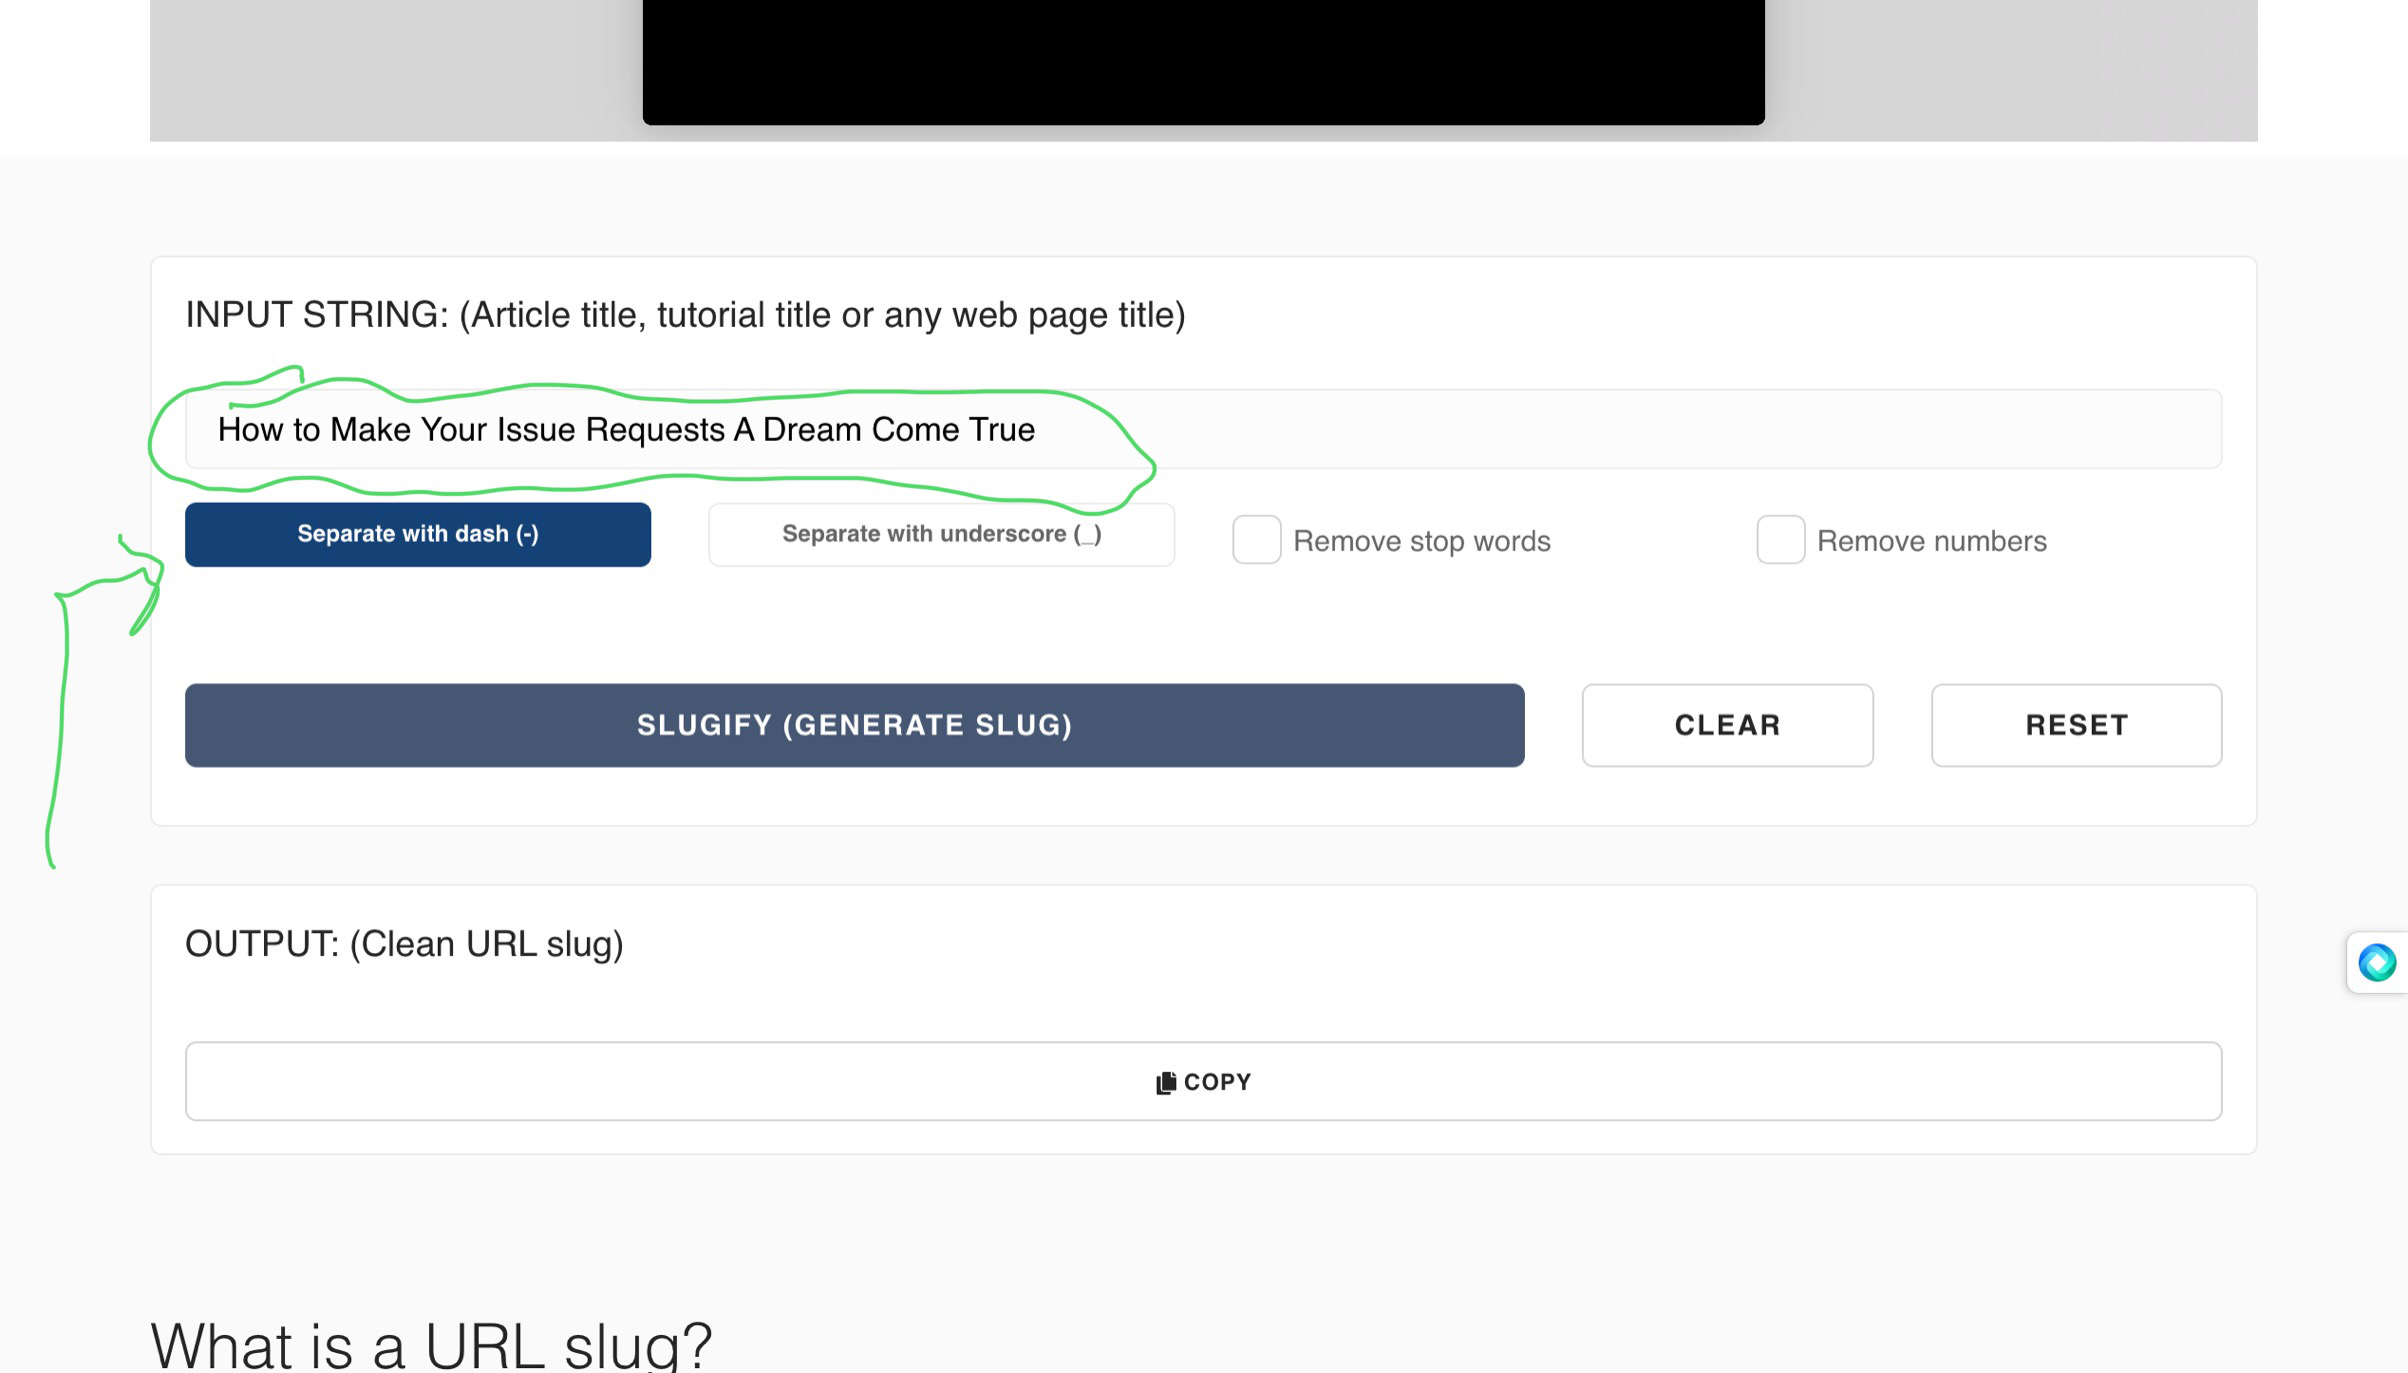
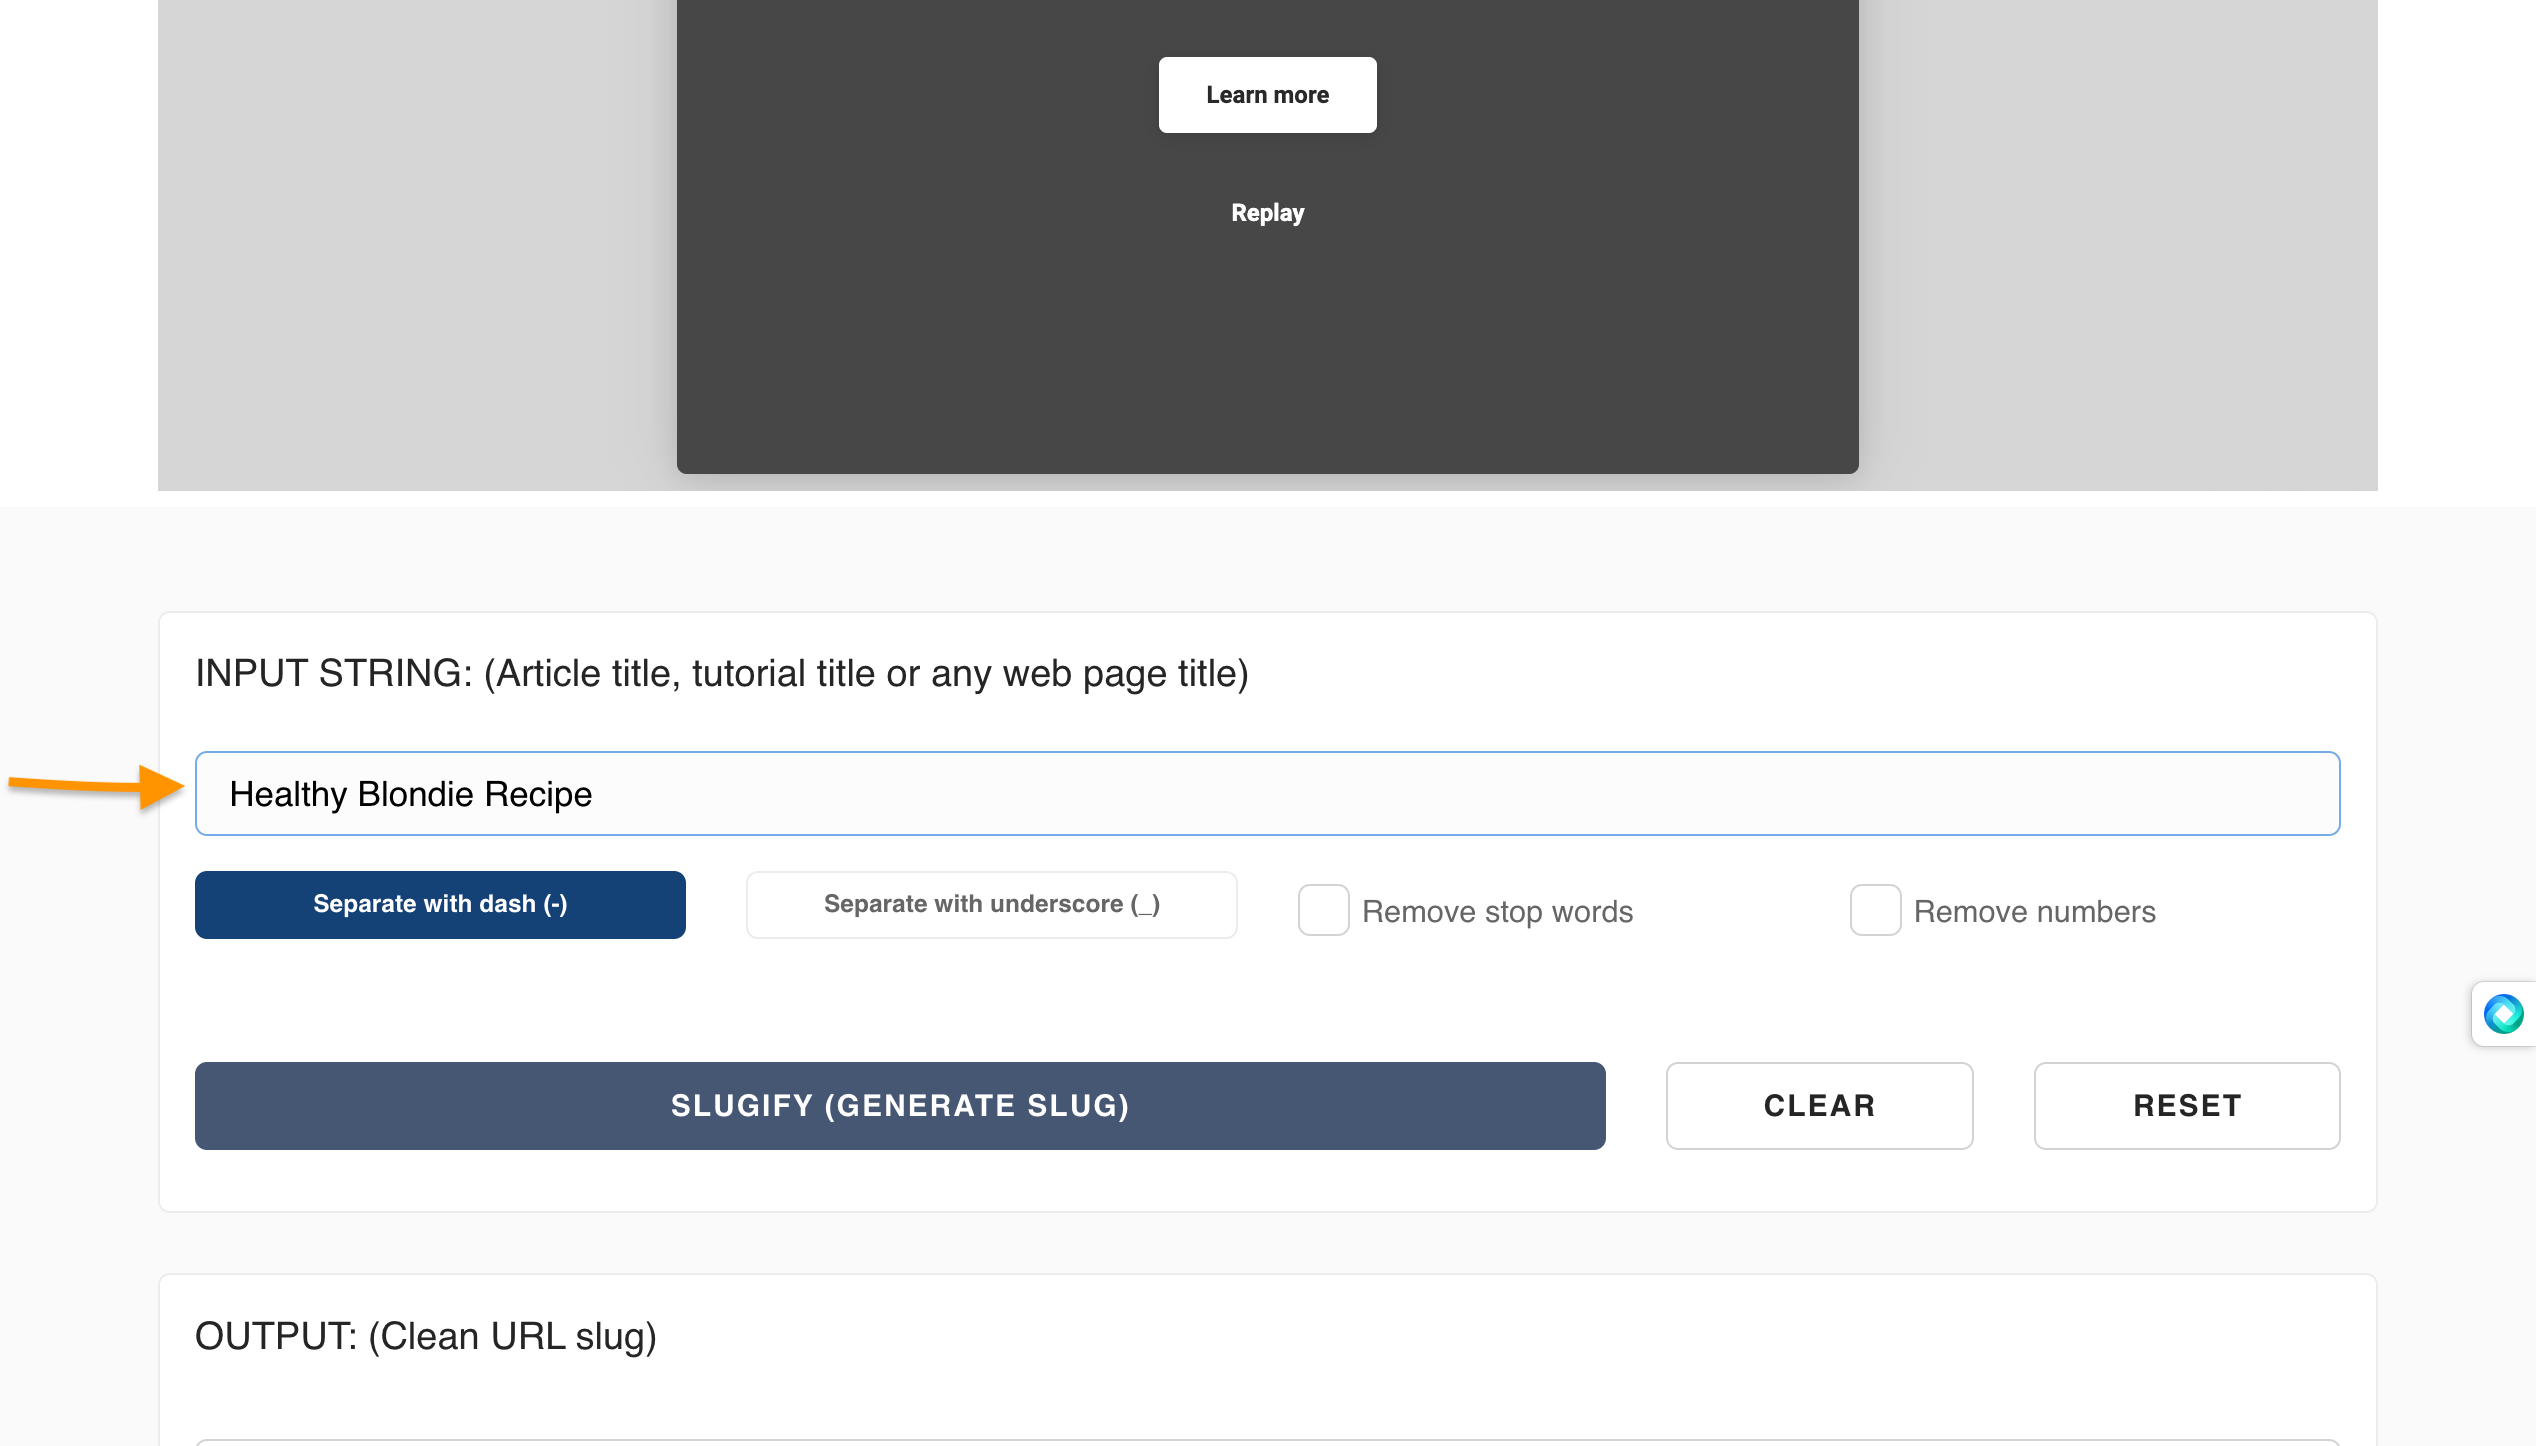
fix: I replaced the images and added a conclusion to my article

diff --git a/content/christine_belzie/create-a-url-using-slugs.md b/content/christine_belzie/create-a-url-using-slugs.md
@@ -15,34 +15,33 @@ CatalogContent:
 [https://downshiftology.com/recipes/gluten-free-chocolate-chip-cookies/]: https://downshiftology.com/recipes/gluten-free-chocolate-chip-cookies/
 [URL]: https://www.codecademy.com/resources/docs/general/url
 [slugify.online]: https://slugify.online/
-[John Mueller from Google(start at 19:00)]: https://www.youtube.com/live/4FkSZIW6d48?feature=share
 
 [Step 1 of URL slug]: https://github.com/Codecademy/ugc/main/content/christine_belzie/step1-of-slug.png
 [Step 2 of URL slug]: https://github.com/Codecademy/ugc/main/content/christine_belzie/step2-of-slug.png
-[Step 3 of URL slug]: https://github.com/Codecademy/ugc/main/content/christine_belzie/step3-of-slug.png 
+[Step 3 of URL slug]: https://github.com/Codecademy/ugc/main/content/christine_belzie/step3-of-slug.png
 
-## Introduction 
+## Introduction
 
 Picture this. You're scrolling through the internet, find a cookie recipe, and click on the "Share" button to send this link to your friend:
 [https://downshiftology.com/recipes/gluten-free-chocolate-chip-cookies/]
 
-You see `gluten-free-chocolate-chip-cookies` after the backslash (`/`). This is called a **slug**. Slugs are a vital part of a [URL] that helps identify a particular page on a website in a user-friendly manner. Essentially, slugs identify the content found on the page. In this article, you will learn the importance of slugs in SEO strategy, how to create them, and best practices.   
+You see `gluten-free-chocolate-chip-cookies` after the backslash (`/`). This is called a **slug**. Slugs are a vital part of a [URL] that helps identify a particular page on a website in a user-friendly manner. Essentially, slugs identify the content found on the page. In this article, you will learn the importance of slugs in SEO strategy, how to create them, and best practices.
 
 ## Why Are Slugs Important to SEO Strategy?
 
 Even though slugs won't have a direct impact on how your content ranks on the web, they do influence a visitor's decision on whether to view your content or not. Here's how:
 
-1. **Increases Search Ranking:** Cannibalization is a common issue for content creators. It's when most of the blog posts, articles, and other pieces of content on a website share the same keyword. This makes it difficult for people to find them on your site. Slugs solve this issue by putting a unique name like a title or heading, thus, making it easier for people to find a person's work. Think of this as the names of the folders on your Google Drive or OneDrive account. 
+1. **Increases Search Ranking:** Cannibalization is a common issue for content creators. It's when most of the blog posts, articles, and other pieces of content on a website share the same keyword. This makes it difficult for people to find them on your site. Slugs solve this issue by putting a unique name like a title or heading, thus, making it easier for people to find a person's work. Think of this as the names of the folders on your Google Drive or OneDrive account.
 
-2. **Improves Shareability:** Adding slugs to your content's URLs makes them shorter, thus, making it easier for your viewers to copy, paste, and send them to other people. 
+2. **Improves Shareability:** Adding slugs to your content's URLs makes them shorter, thus, making it easier for your viewers to copy, paste, and send them to other people.
 
-Now, let's create a slug! 
+Now, let's create a slug!
 
-## How To Create a Slug 
+## How To Create a Slug
 
 Consider using the following methods to create a slug:
 
-### Method 1: Manually 
+### Method 1: Manually
 
 1. **Think of a short yet descriptive name:**  We recommend making it easy for people to remember. For example, let's say a person wanted to create a slug for the blog post titled "How to Make Your Issue Requests Come True".
 
@@ -50,28 +49,32 @@ Consider using the following methods to create a slug:
 
 Your URL is now SEO-Friendly!
 
-### Method 2: Use an URL Slug Generator 
+### Method 2: Use an URL Slug Generator
 
 Creating a URL slug for your content can sometimes very be time-consuming, so we suggest using a tool like [slugify.online] to help you finish quickly:
 
-1. Type your content's title in the textbox titled **INPUT STRING**. Make sure that the **Separate with a dash (-)** option is highlighted. 
+1. Type your content's title in the textbox titled **INPUT STRING**. Make sure that the **Separate with a dash (-)** option is highlighted.
 
 ![Step 1 of URL slug]
 
-2. Click on **Slugify(Generate Slug)**
+ 1. Click on **Slugify(Generate Slug)**
 
 ![Step 2 of URL slug]
 
-4. Click on **Copy**. Then, add it to your website's URL.
+1. Click on **Copy**. Then, add it to your website's URL.
 
 ![Step 3 of URL slug]
 
-## Best Practices 
+## Best Practices
 
 When it comes to creating a URL slug, keep the following practices in mind:
 
-1. **Keep them Short:** According to [John Mueller from Google (19:00-)], Google favors URLs under 2,000 characters. With that it mind, it's best to keep your slugs within that limit so your content can been ranked in that search engine.  
+1. **Keep them Short:** According to [John Mueller from Google](https://www.seroundtable.com/google-url-characters-18219.html), the website favors URLs under 2,000 characters. With that it mind, it's best to keep your slugs within that limit so your content can been ranked in that search engine.  
 
-2. **Match it to the page's content:** This ensures that Google and other search engines will rank it based on the query it falls into. 
+2. **Match it to the page's content:** This ensures that Google and other search engines will rank it based on the query it falls into.
 
-3. **No upper-case:** When creating slugs, it's best to present them in lower-case letters. This can prevent 404 error pages and content duplication from appearing whenever someone views your content. 
+3. **No upper-case:** When creating slugs, it's best to present them in lower-case letters. This can prevent 404 error pages and content duplication from appearing whenever someone views your content.
+
+## Conclusion
+
+As peculiar as the name is, URL slugs are an important part of the internet. They help people find your content, and they can even make you laugh. So next time you're creating a URL slug, make sure they are clear and easy to remember. You'll never know, it might be the very thing that helps you land the job of your dreams.
